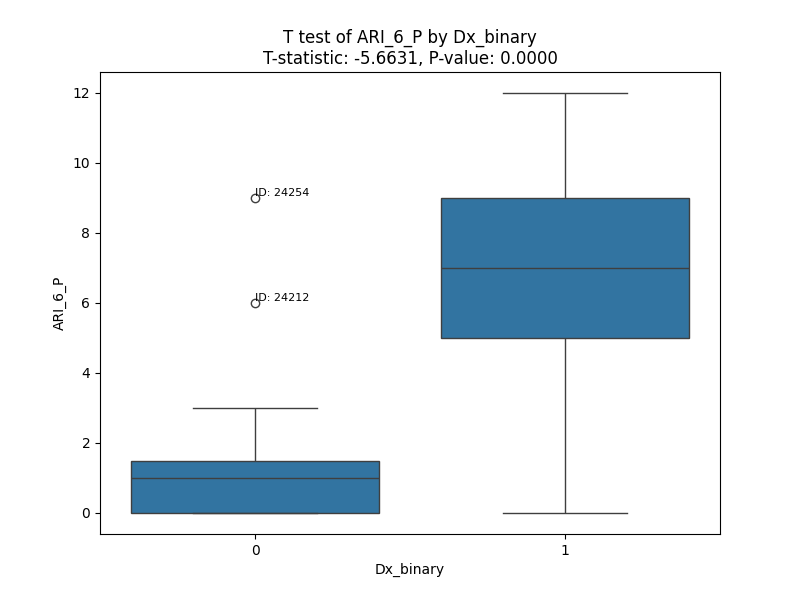
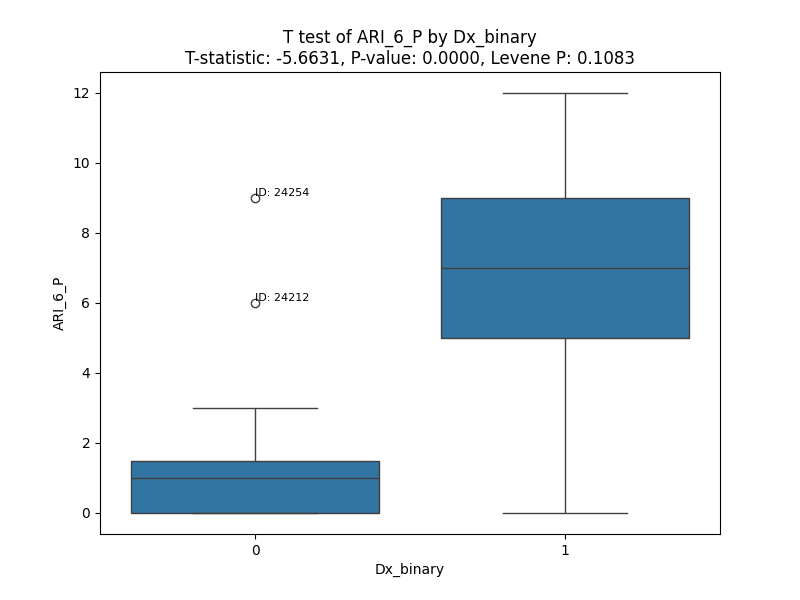
ttest with levene fixation

Changed region(s): [[0.25, 0.06, 0.7812, 0.12]]

diff --git a/sagol_project/03 - t test/ttests.py b/sagol_project/03 - t test/ttests.py
@@ -4,7 +4,6 @@ from scipy import stats
 import os
 import seaborn as sns
 
-
 data = pd.read_csv("Cleaned_data.csv")
 id_col = "ID"
 
@@ -14,18 +13,26 @@ dx_index = cols.index("Dx")
 cols.insert(dx_index + 1, cols.pop(cols.index("Dx_binary")))
 data = data[cols]
 
-variables = ["ARI_1_C",	"ARI_1_P",	"ARI_6_C",	"ARI_6_P",	"SCARED_C",	"SCARED_P"]
+variables = ["ARI_1_C", "ARI_1_P", "ARI_6_C", "ARI_6_P", "SCARED_C", "SCARED_P"]
 
 output_dir = "t_test_graphs"
+os.makedirs(output_dir, exist_ok=True)
 
+# Run T-tests with Levene's test
 for var in variables:
     group_0 = data[data["Dx_binary"] == 0][var]
     group_1 = data[data["Dx_binary"] == 1][var]
-    
-    t_stat, p_val = stats.ttest_ind(group_0, group_1, nan_policy='omit')
+
+    # Levene's test for equal variances
+    levene_stat, levene_p = stats.levene(group_0, group_1, center='mean')
+    equal_var = True if levene_p > 0.05 else False
+
+    t_stat, p_val = stats.ttest_ind(group_0, group_1, equal_var=equal_var, nan_policy='omit')
+
 
     plt.figure(figsize=(8, 6))
     ax = sns.boxplot(x='Dx_binary', y=var, data=data)
+
     for i, group in enumerate([0, 1]):
         group_data = data[data["Dx_binary"] == group][[id_col, var]].dropna()
         q1 = group_data[var].quantile(0.25)
@@ -49,8 +56,12 @@ for var in variables:
             plt.text(i, outlier_y + offset, f"ID: {row[id_col]}", fontsize=8, verticalalignment='bottom')
             y_offsets[outlier_y] = offset
 
-    plt.title(f"T test of {var} by Dx_binary\nT-statistic: {t_stat:.4f}, P-value: {p_val:.4f}")
 
+    plt.title(
+        f"T test of {var} by Dx_binary\n"
+        f"T-statistic: {t_stat:.4f}, P-value: {p_val:.4f}, Levene P: {levene_p:.4f}"
+    )
+
+    # Save plot
     plt.savefig(os.path.join(output_dir, f"{var}_T_test.png"))
     plt.close()
-
